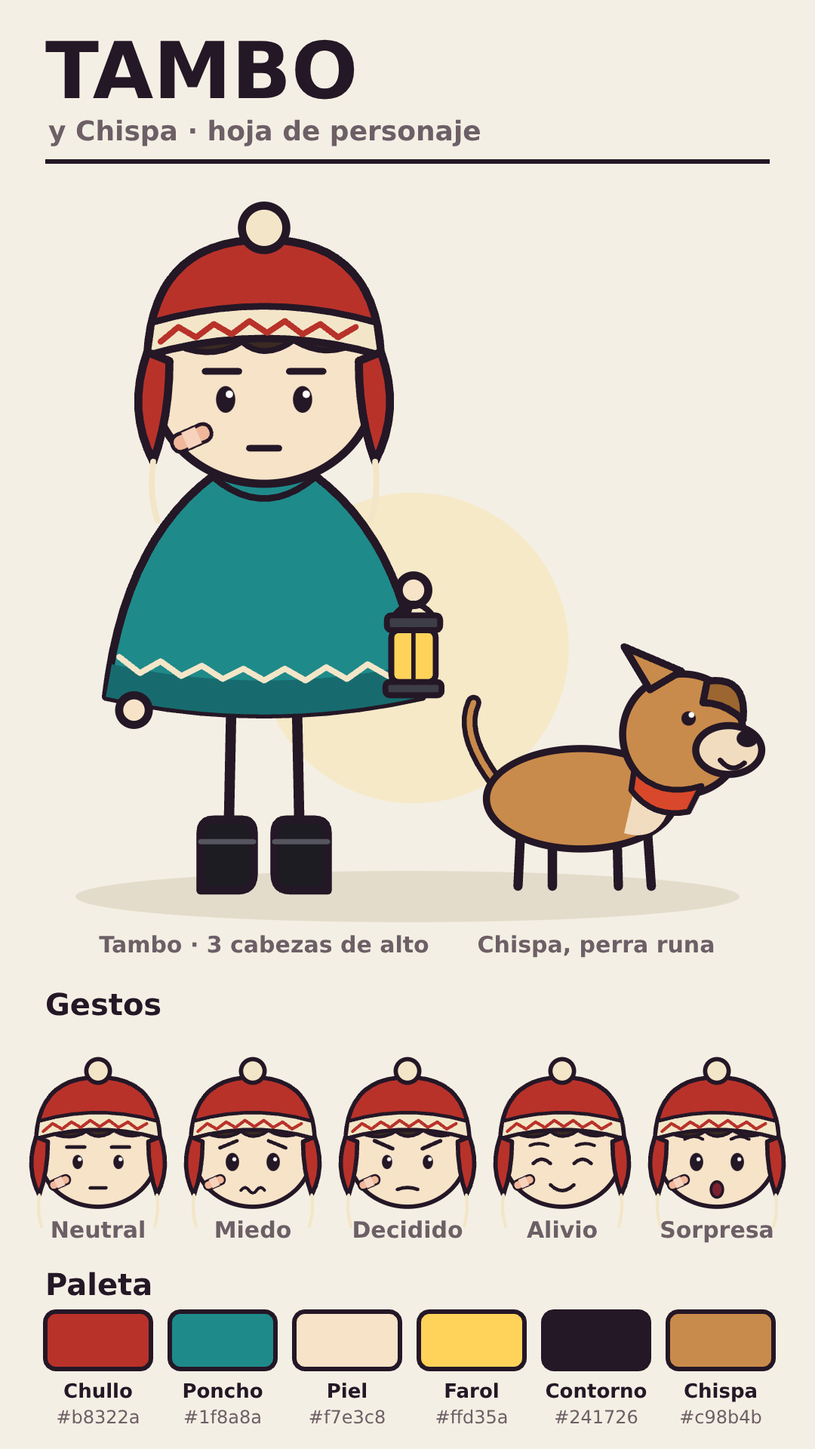
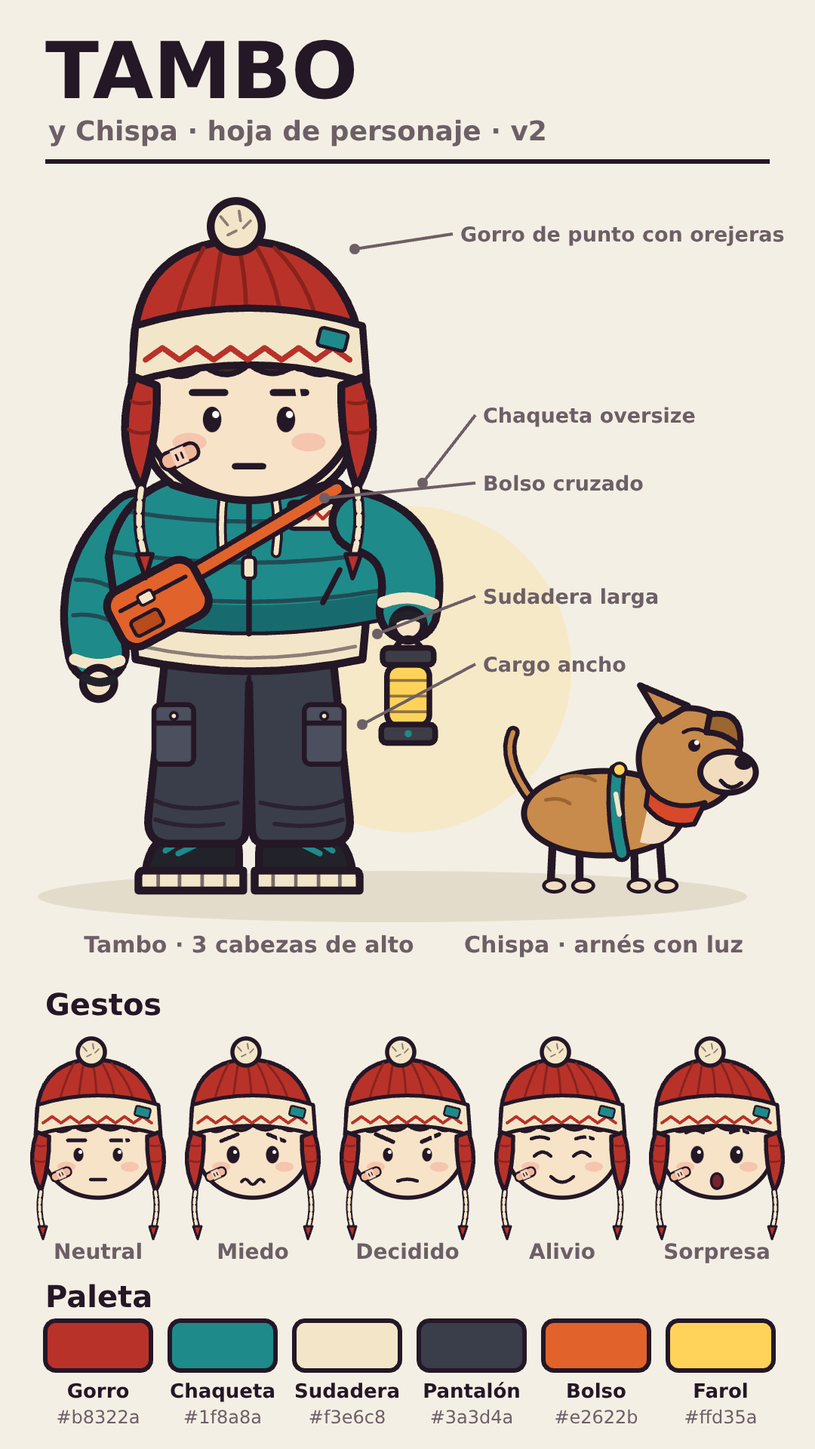
Redesign Tambo with detailed oversized streetwear
Claude-Session: https://claude.ai/code/session_014WXcrYC9XD7ERpYUNELFBA

diff --git a/src/personaje/Tambo.tsx b/src/personaje/Tambo.tsx
@@ -1,19 +1,27 @@
 // Tambo y Chispa: los personajes fijos del canal. Ver personaje/BIBLIA_TAMBO.md.
-// Dibujo 2D en SVG. El origen (0, 0) está entre los pies; Tambo mide unas 880 unidades de alto.
+// Versión 2 (2026): ropa oversize actual y más detalle. Dibujo 2D en SVG.
+// El origen (0, 0) está entre los pies; Tambo mide unas 960 unidades de alto.
 import React from "react";
 
 export const PALETA = {
-  contorno: "#241726", piel: "#f7e3c8", chullo: "#b8322a", crema: "#f3e6c8", poncho: "#1f8a8a", ponchoSombra: "#176b6e",
-  botas: "#1c1c22", farol: "#ffd35a", pelo: "#3a2a22", chispa: "#c98b4b", chispaClaro: "#f1dcc0", panuelo: "#d9482b",
+  contorno: "#241726", piel: "#f7e3c8", chullo: "#b8322a", chulloSombra: "#8a221c", crema: "#f3e6c8", chaqueta: "#1f8a8a", chaquetaSombra: "#176b6e",
+  pantalon: "#3a3d4a", pantalonClaro: "#4b4f5e", zapato: "#22222a", bolso: "#e2622b", farol: "#ffd35a", pelo: "#3a2a22",
+  chispa: "#c98b4b", chispaClaro: "#f1dcc0", panuelo: "#d9482b",
 };
 export type Gesto = "neutral" | "miedo" | "decidido" | "alivio" | "sorpresa";
 const C = PALETA;
+
+/** tubo con contorno: mangas y correas anchas */
+const Tubo: React.FC<{ d: string; w: number; c: string; borde?: number }> = ({ d, w, c, borde = 22 }) => (
+  <><path d={d} fill="none" stroke={C.contorno} strokeWidth={w + borde} /><path d={d} fill="none" stroke={c} strokeWidth={w} /></>
+);
 
 const Cara: React.FC<{ gesto: Gesto; mira?: [number, number] }> = ({ gesto, mira = [0, 0] }) => {
   const [mx, my] = [mira[0] * 8, mira[1] * 8];
   const grande = gesto === "miedo" || gesto === "sorpresa";
   return (
     <g stroke={C.contorno} strokeLinecap="round" strokeLinejoin="round" transform="translate(0 30)">
+      <ellipse cx={-84} cy={-662} rx={24} ry={13} fill="#f2a08c" opacity={0.45} stroke="none" /><ellipse cx={84} cy={-662} rx={24} ry={13} fill="#f2a08c" opacity={0.45} stroke="none" />
       {gesto === "alivio"
         ? <path d="M-74 -690 q22 -22 44 0 M30 -690 q22 -22 44 0" fill="none" strokeWidth={9} />
         : <>
@@ -21,11 +29,13 @@ const Cara: React.FC<{ gesto: Gesto; mira?: [number, number] }> = ({ gesto, mira
           <ellipse cx={52 + mx} cy={-694 + my} rx={grande ? 17 : 13} ry={grande ? 23 : 18} fill={C.contorno} stroke="none" />
           <circle cx={-47 + mx} cy={-701 + my} r={5} fill="#fff" stroke="none" /><circle cx={57 + mx} cy={-701 + my} r={5} fill="#fff" stroke="none" />
         </>}
-      {gesto === "neutral" && <path d="M-80 -732 h46 M34 -732 h46" strokeWidth={9} fill="none" />}
-      {gesto === "miedo" && <path d="M-84 -730 l44 -18 M40 -748 l44 18" strokeWidth={9} fill="none" />}
-      {gesto === "decidido" && <path d="M-84 -748 l46 20 M38 -728 l46 -20" strokeWidth={10} fill="none" />}
-      {gesto === "alivio" && <path d="M-82 -736 q24 -10 46 0 M36 -736 q24 -10 46 0" strokeWidth={8} fill="none" />}
-      {gesto === "sorpresa" && <path d="M-82 -752 q24 -14 46 0 M36 -752 q24 -14 46 0" strokeWidth={8} fill="none" />}
+      {gesto === "neutral" && <path d="M-80 -732 h46 M34 -732 h46" strokeWidth={10} fill="none" />}
+      {gesto === "miedo" && <path d="M-84 -730 l44 -18 M40 -748 l44 18" strokeWidth={10} fill="none" />}
+      {gesto === "decidido" && <path d="M-84 -748 l46 20 M38 -728 l46 -20" strokeWidth={11} fill="none" />}
+      {gesto === "alivio" && <path d="M-82 -736 q24 -10 46 0 M36 -736 q24 -10 46 0" strokeWidth={9} fill="none" />}
+      {gesto === "sorpresa" && <path d="M-82 -752 q24 -14 46 0 M36 -752 q24 -14 46 0" strokeWidth={9} fill="none" />}
+      {/* ceja partida: detalle actual */}
+      <line x1={64} y1={-760} x2={72} y2={-716} stroke={C.piel} strokeWidth={7} />
       {gesto === "neutral" && <path d="M-20 -628 h40" strokeWidth={9} fill="none" />}
       {gesto === "miedo" && <path d="M-30 -622 q10 -14 20 0 t20 0 t20 0" strokeWidth={8} fill="none" />}
       {gesto === "decidido" && <path d="M-26 -624 q26 -10 52 0" strokeWidth={9} fill="none" />}
@@ -34,47 +44,89 @@ const Cara: React.FC<{ gesto: Gesto; mira?: [number, number] }> = ({ gesto, mira
       {/* la curita: su marca */}
       <g transform="rotate(-24 -98 -642)" strokeWidth={5}>
         <rect x={-126} y={-654} width={56} height={24} rx={11} fill="#f0b79a" /><rect x={-108} y={-654} width={20} height={24} fill="#f7d3bd" stroke="none" />
+        <path d="M-102 -646 v8 M-94 -646 v8" strokeWidth={3} />
       </g>
     </g>
   );
 };
 
+const Zigzag: React.FC<{ x: number; y: number; n: number; paso: number; alto: number; color: string; w?: number }> = ({ x, y, n, paso, alto, color, w = 7 }) => (
+  <path d={`M${x} ${y}` + [...Array(n)].map((_, i) => `l${paso} ${i % 2 ? alto : -alto}`).join("")} fill="none" stroke={color} strokeWidth={w} />
+);
+
 export const Tambo: React.FC<{ x: number; y: number; s?: number; gesto?: Gesto; farol?: boolean; luz?: number; brazo?: number; voltea?: boolean; soloCabeza?: boolean; mira?: [number, number] }> =
   ({ x, y, s = 1, gesto = "neutral", farol = true, luz = 1, brazo = 0.35, voltea = false, soloCabeza = false, mira }) => {
-    const mx = 190 + 30 * brazo, my = -330 - 190 * brazo; // mano del farol
+    const mx = 214 + 26 * brazo, my = -336 - 170 * brazo; // mano del farol
     return (
       <g transform={`translate(${x} ${y}) scale(${voltea ? -s : s} ${s})`} stroke={C.contorno} strokeWidth={11} strokeLinejoin="round" strokeLinecap="round">
         {!soloCabeza && <>
-          {farol && luz > 0 && <circle cx={mx} cy={my + 78} r={210} fill={C.farol} opacity={0.2 * luz} stroke="none" />}
-          <line x1={-44} y1={-270} x2={-48} y2={-70} strokeWidth={14} /><line x1={44} y1={-270} x2={48} y2={-70} strokeWidth={14} />
-          <path d="M-86 0 V-78 Q-86 -96 -68 -96 H-30 Q-14 -96 -14 -78 V-22 Q-14 0 -36 0Z" fill={C.botas} />
-          <path d="M86 0 V-78 Q86 -96 68 -96 H30 Q14 -96 14 -78 V-22 Q14 0 36 0Z" fill={C.botas} />
-          <path d="M-86 -66 h72 M14 -66 h72" stroke="#55555f" strokeWidth={7} />
-          <path d="M-150 -330 Q-190 -300 -176 -250" fill="none" strokeWidth={13} />
-          <path d={`M150 -330 Q190 ${-330 - 60 * brazo} ${mx} ${my}`} fill="none" strokeWidth={13} />
-          {/* poncho de aguas, con su franja en zigzag */}
-          <path d="M-70 -560 Q-190 -470 -214 -262 Q0 -214 214 -262 Q190 -470 70 -560 Q0 -590 -70 -560Z" fill={C.poncho} />
-          <path d="M-206 -306 Q0 -262 206 -306 L214 -262 Q0 -214 -214 -262Z" fill={C.ponchoSombra} stroke="none" />
-          <path d="M-196 -316 l28 22 l28 -16 l28 20 l28 -14 l28 18 l28 -14 l28 16 l28 -16 l28 16 l28 -18 l28 16 l28 -20 l28 16 l28 -22" fill="none" stroke={C.crema} strokeWidth={8} />
-          <path d="M-70 -560 Q0 -500 70 -560" fill="none" strokeWidth={9} />
-          <circle cx={-176} cy={-244} r={20} fill={C.piel} /><circle cx={mx} cy={my} r={20} fill={C.piel} />
-          {farol && <g transform={`translate(${mx} ${my})`}>
-            <path d="M-26 34 Q0 2 26 34" fill="none" strokeWidth={8} />
-            <rect x={-36} y={34} width={72} height={20} rx={6} fill="#3d3d47" strokeWidth={8} />
-            <rect x={-30} y={54} width={60} height={70} rx={10} fill={luz > 0 ? C.farol : "#7d8590"} strokeWidth={8} />
-            <line x1={0} y1={54} x2={0} y2={124} strokeWidth={6} />
-            <rect x={-38} y={124} width={76} height={18} rx={6} fill="#3d3d47" strokeWidth={8} />
+          {farol && luz > 0 && <circle cx={mx} cy={my + 92} r={230} fill={C.farol} opacity={0.2 * luz} stroke="none" />}
+          {/* zapatillas de suela gruesa */}
+          {[-1, 1].map((k) => <g key={k} transform={`scale(${k} 1)`}>
+            <path d="M14 -26 V-52 Q14 -82 46 -82 H96 Q140 -78 146 -26Z" fill={C.zapato} />
+            <path d="M8 0 V-28 H150 Q156 -28 156 -18 V0Z" fill={C.crema} />
+            <path d="M34 -28 v28 M66 -28 v28 M98 -28 v28 M128 -28 v28" strokeWidth={5} opacity={0.6} />
+            <path d="M60 -72 l40 20 M84 -78 l34 22" stroke={C.chaqueta} strokeWidth={8} />
+          </g>)}
+          {/* pantalón cargo ancho, arrugado en el tobillo */}
+          <path d="M-116 -350 L-142 -104 Q-146 -66 -110 -66 H-22 Q-4 -66 -4 -90 L0 -292 L4 -90 Q4 -66 22 -66 H110 Q146 -66 142 -104 L116 -350Z" fill={C.pantalon} />
+          <path d="M0 -300 V-210" strokeWidth={7} />
+          <path d="M-136 -128 q46 22 120 4 M-132 -100 q40 14 96 6 M136 -128 q-46 22 -120 4 M132 -100 q-40 14 -96 6" fill="none" strokeWidth={6} opacity={0.7} />
+          {[-1, 1].map((k) => <g key={k} transform={`scale(${k} 1)`} strokeWidth={7}>
+            <rect x={78} y={-262} width={56} height={84} rx={9} fill={C.pantalonClaro} /><path d="M78 -236 h56" /><circle cx={106} cy={-246} r={5} fill={C.crema} strokeWidth={4} />
+          </g>)}
+          {/* sudadera larga que asoma bajo la chaqueta */}
+          <path d="M-166 -392 Q0 -356 166 -392 L160 -326 Q0 -292 -160 -326Z" fill={C.crema} />
+          <path d="M-150 -344 Q0 -312 150 -344" fill="none" strokeWidth={5} opacity={0.5} />
+          {/* manga izquierda, caída y ancha */}
+          <Tubo d="M-158 -520 Q-240 -452 -214 -336" w={70} c={C.chaqueta} />
+          <path d="M-244 -438 q30 -2 56 14 M-248 -388 q30 -4 58 10" fill="none" strokeWidth={6} opacity={0.55} />
+          <path d="M-246 -326 q32 14 64 2" stroke={C.crema} strokeWidth={16} /><circle cx={-212} cy={-292} r={22} fill={C.piel} />
+          <path d="M-232 -300 q20 12 40 2" stroke={C.zapato} strokeWidth={12} fill="none" />
+          {/* chaqueta acolchada oversize */}
+          <path d="M-100 -582 Q-186 -556 -198 -470 L-186 -384 Q0 -346 186 -384 L198 -470 Q186 -556 100 -582 Q0 -606 -100 -582Z" fill={C.chaqueta} />
+          <path d="M-190 -420 Q0 -384 190 -420 L186 -384 Q0 -346 -186 -384Z" fill={C.chaquetaSombra} stroke="none" />
+          <path d="M-196 -478 Q0 -446 196 -478 M-192 -424 Q0 -390 192 -424 M-170 -534 Q0 -506 170 -534" fill="none" strokeWidth={6} opacity={0.55} />
+          <path d="M0 -596 V-362" strokeWidth={8} /><rect x={-9} y={-470} width={18} height={30} rx={6} fill={C.crema} strokeWidth={5} />
+          <path d="M-128 -452 l24 46 M128 -452 l-24 46" strokeWidth={8} />
+          <rect x={56} y={-548} width={66} height={38} rx={7} fill={C.crema} strokeWidth={6} /><Zigzag x={64} y={-524} n={5} paso={10} alto={10} color={C.chullo} w={5} />
+          {/* capucha de la sudadera y cordones */}
+          <path d="M-108 -572 Q-160 -612 -126 -652 Q0 -596 126 -652 Q160 -612 108 -572 Q0 -534 -108 -572Z" fill={C.crema} />
+          <path d="M-36 -560 q-6 50 0 96 M36 -560 q8 44 2 84" fill="none" stroke={C.contorno} strokeWidth={15} /><path d="M-36 -560 q-6 50 0 96 M36 -560 q8 44 2 84" fill="none" stroke={C.crema} strokeWidth={7} />
+          {/* bolso cruzado */}
+          <path d="M124 -566 L-150 -404" stroke={C.contorno} strokeWidth={28} /><path d="M124 -566 L-150 -404" stroke={C.bolso} strokeWidth={14} />
+          <g transform="rotate(-28 -128 -404)">
+            <rect x={-196} y={-448} width={136} height={86} rx={24} fill={C.bolso} /><path d="M-180 -420 h104" strokeWidth={6} /><rect x={-150} y={-428} width={22} height={16} rx={4} fill={C.crema} strokeWidth={4} />
+            <rect x={-176} y={-400} width={44} height={24} rx={6} fill="#b84a1c" strokeWidth={5} />
+          </g>
+          {/* manga derecha con el farol */}
+          <Tubo d={`M158 -520 Q${244} ${-478 - 40 * brazo} ${mx} ${my + 10}`} w={70} c={C.chaqueta} />
+          <path d={`M${mx - 36} ${my - 2} q36 -14 72 2`} stroke={C.crema} strokeWidth={16} fill="none" />
+          <circle cx={mx} cy={my + 30} r={22} fill={C.piel} /><path d={`M${mx - 20} ${my + 22} q20 -12 40 0`} stroke={C.zapato} strokeWidth={12} fill="none" />
+          {farol && <g transform={`translate(${mx} ${my + 30})`}>
+            <path d="M-20 34 Q0 2 20 34" fill="none" strokeWidth={8} />
+            <rect x={-36} y={32} width={72} height={24} rx={8} fill="#3d3d47" strokeWidth={8} />
+            <rect x={-30} y={56} width={60} height={86} rx={16} fill={luz > 0 ? C.farol : "#7d8590"} strokeWidth={8} />
+            <path d="M-30 78 h60 M-30 100 h60 M-30 122 h60" strokeWidth={4} opacity={0.5} />
+            <rect x={-38} y={140} width={76} height={26} rx={8} fill="#3d3d47" strokeWidth={8} /><circle cx={0} cy={153} r={5} fill={C.chaqueta} stroke="none" />
           </g>}
         </>}
-        {/* cabeza de frijol y chullo */}
+        {/* cabeza de frijol */}
         <ellipse cx={0} cy={-690} rx={152} ry={140} fill={C.piel} />
-        <path d="M-120 -738 Q-70 -716 -30 -742 Q0 -716 40 -744 Q80 -720 120 -738 L112 -790 H-112Z" fill={C.pelo} strokeWidth={8} />
-        <path d="M-158 -724 Q-150 -880 0 -880 Q150 -880 158 -724 Q0 -770 -158 -724Z" fill={C.chullo} />
-        <path d="M-158 -724 Q0 -770 158 -724 L152 -768 Q0 -812 -152 -768Z" fill={C.crema} strokeWidth={9} />
-        <path d="M-140 -742 l24 -20 l24 14 l24 -18 l24 14 l24 -18 l24 16 l24 -16 l24 18 l24 -14 l24 18 l24 -14" fill="none" stroke={C.chullo} strokeWidth={8} />
-        <path d="M-158 -728 Q-186 -650 -150 -580 Q-128 -640 -128 -716Z" fill={C.chullo} /><path d="M158 -728 Q186 -650 150 -580 Q128 -640 128 -716Z" fill={C.chullo} />
-        <path d="M-150 -580 q-6 44 6 80 M150 -580 q6 44 -6 80" fill="none" stroke={C.crema} strokeWidth={8} />
-        <circle cx={0} cy={-896} r={30} fill={C.crema} />
+        <path d="M-124 -736 Q-96 -712 -64 -740 Q-30 -714 0 -742 Q34 -716 66 -742 Q98 -716 124 -736 L116 -790 H-116Z" fill={C.pelo} strokeWidth={8} />
+        {/* gorro de punto oversize con orejeras: su silueta */}
+        <path d="M-162 -724 Q-176 -900 -30 -916 Q150 -924 164 -724 Q0 -772 -162 -724Z" fill={C.chullo} />
+        {[-104, -54, -4, 46, 96].map((u) => <path key={u} d={`M${u} -800 Q${u * 0.86} -860 ${u * 0.5 - 12} -906`} fill="none" stroke={C.chulloSombra} strokeWidth={6} />)}
+        <path d="M-166 -716 Q0 -766 166 -716 L160 -796 Q0 -846 -160 -796Z" fill={C.crema} strokeWidth={10} />
+        <Zigzag x={-146} y={-748} n={12} paso={24} alto={17} color={C.chullo} w={8} />
+        <rect x={98} y={-790} width={40} height={26} rx={5} fill={C.chaqueta} strokeWidth={5} transform="rotate(14 118 -777)" />
+        <path d="M-162 -724 Q-192 -640 -152 -566 Q-128 -636 -130 -712Z" fill={C.chullo} /><path d="M162 -724 Q192 -640 152 -566 Q128 -636 130 -712Z" fill={C.chullo} />
+        <path d="M-166 -690 q10 6 26 2 M-170 -650 q12 8 30 4 M166 -690 q-10 6 -26 2 M170 -650 q-12 8 -30 4" fill="none" stroke={C.chulloSombra} strokeWidth={5} />
+        {[-1, 1].map((k) => <g key={k} transform={`scale(${k} 1)`}>
+          <path d="M152 -566 q8 50 -4 92" fill="none" stroke={C.contorno} strokeWidth={16} /><path d="M152 -566 q8 50 -4 92" fill="none" stroke={C.crema} strokeWidth={8} strokeDasharray="12 7" />
+          <path d="M136 -474 l10 34 l12 -34Z" fill={C.chullo} strokeWidth={6} />
+        </g>)}
+        <circle cx={-18} cy={-936} r={36} fill={C.crema} /><path d="M-40 -950 l10 12 M-14 -958 l2 14 M2 -944 l-10 10 M-30 -924 l12 -6" strokeWidth={4} opacity={0.5} />
         <Cara gesto={gesto} mira={mira} />
       </g>
     );
@@ -84,16 +136,22 @@ export const Tambo: React.FC<{ x: number; y: number; s?: number; gesto?: Gesto; 
 export const Chispa: React.FC<{ x: number; y: number; s?: number; alerta?: boolean; voltea?: boolean; cola?: number }> = ({ x, y, s = 1, alerta = false, voltea = false, cola = 0 }) => (
   <g transform={`translate(${x} ${y}) scale(${voltea ? -s : s} ${s})`} stroke={C.contorno} strokeWidth={10} strokeLinejoin="round" strokeLinecap="round">
     <path d={`M-118 -150 Q-170 ${-200 - 30 * cola} -150 ${-250 - 20 * cola}`} fill="none" strokeWidth={22} /><path d={`M-118 -150 Q-170 ${-200 - 30 * cola} -150 ${-250 - 20 * cola}`} fill="none" strokeWidth={8} stroke={C.chispa} />
-    <line x1={-84} y1={-90} x2={-88} y2={-6} strokeWidth={13} /><line x1={-40} y1={-86} x2={-40} y2={-6} strokeWidth={13} />
-    <line x1={50} y1={-86} x2={52} y2={-6} strokeWidth={13} /><line x1={92} y1={-92} x2={98} y2={-6} strokeWidth={13} />
+    {[[-84, -88], [-40, -40], [50, 52], [92, 98]].map(([a, b], i) => <g key={i}>
+      <line x1={a} y1={-90} x2={b} y2={-8} strokeWidth={13} /><ellipse cx={b + 6} cy={-8} rx={17} ry={10} fill={C.chispaClaro} strokeWidth={6} />
+    </g>)}
     <ellipse cx={0} cy={-128} rx={132} ry={70} fill={C.chispa} />
     <path d="M60 -80 Q110 -66 124 -120 Q110 -150 76 -150Z" fill={C.chispaClaro} stroke="none" />
+    <path d="M-70 -186 q30 -10 56 4 M-96 -150 q24 -6 40 6" fill="none" stroke="#9c6630" strokeWidth={6} />
+    {/* arnés reflectivo con luz */}
+    <path d="M22 -196 Q14 -128 30 -62" fill="none" stroke={C.contorno} strokeWidth={30} /><path d="M22 -196 Q14 -128 30 -62" fill="none" stroke={C.chaqueta} strokeWidth={16} />
+    <path d="M20 -160 l6 34" stroke={C.crema} strokeWidth={8} /><circle cx={26} cy={-200} r={11} fill={C.farol} strokeWidth={5} />
     <circle cx={142} cy={-218} r={84} fill={C.chispa} />
     <path d={alerta ? "M96 -280 L84 -372 L150 -300Z" : "M96 -280 L60 -340 L140 -306Z"} fill={C.chispa} />
     <path d="M176 -292 Q232 -300 226 -238 Q200 -262 170 -262Z" fill="#9c6630" />
     <ellipse cx={206} cy={-196} rx={46} ry={34} fill={C.chispaClaro} />
     <ellipse cx={232} cy={-212} rx={15} ry={12} fill={C.contorno} stroke="none" />
     <circle cx={150} cy={-240} r={alerta ? 13 : 10} fill={C.contorno} stroke="none" /><circle cx={154} cy={-245} r={4} fill="#fff" stroke="none" />
+    <path d="M132 -262 q16 -10 34 -2" fill="none" strokeWidth={6} />
     {alerta ? <path d="M196 -180 q14 12 30 2" fill="none" strokeWidth={7} /> : <path d="M194 -182 q16 20 34 4" fill="none" strokeWidth={7} />}
     <path d="M74 -168 Q110 -128 168 -146 L150 -110 Q100 -100 70 -140Z" fill={C.panuelo} strokeWidth={8} />
   </g>
@@ -102,26 +160,35 @@ export const Chispa: React.FC<{ x: number; y: number; s?: number; alerta?: boole
 // ---------------------------------------------------------------- hoja de personaje (una sola imagen)
 const F = "DejaVu Sans, Arial, sans-serif";
 const GESTOS: [Gesto, string][] = [["neutral", "Neutral"], ["miedo", "Miedo"], ["decidido", "Decidido"], ["alivio", "Alivio"], ["sorpresa", "Sorpresa"]];
-const MUESTRAS: [string, string][] = [["Chullo", C.chullo], ["Poncho", C.poncho], ["Piel", C.piel], ["Farol", C.farol], ["Contorno", C.contorno], ["Chispa", C.chispa]];
+const MUESTRAS: [string, string][] = [["Gorro", C.chullo], ["Chaqueta", C.chaqueta], ["Sudadera", C.crema], ["Pantalón", C.pantalon], ["Bolso", C.bolso], ["Farol", C.farol]];
+const NOTAS: [number, number, number, number, string][] = [
+  [610, 320, 470, 330, "Gorro de punto con orejeras"], [640, 560, 560, 640, "Chaqueta oversize"], [640, 650, 430, 660, "Bolso cruzado"],
+  [640, 800, 500, 840, "Sudadera larga"], [640, 890, 480, 960, "Cargo ancho"],
+];
 export const HojaTambo: React.FC = () => (
   <svg width={1080} height={1920} viewBox="0 0 1080 1920" style={{ background: "#f4efe4" }}>
     <rect width={1080} height={1920} fill="#f4efe4" />
     <text x={60} y={130} fontFamily={F} fontWeight={800} fontSize={104} fill={C.contorno}>TAMBO</text>
-    <text x={64} y={186} fontFamily={F} fontWeight={700} fontSize={36} fill="#6d5f66">y Chispa · hoja de personaje</text>
+    <text x={64} y={186} fontFamily={F} fontWeight={700} fontSize={36} fill="#6d5f66">y Chispa · hoja de personaje · v2</text>
     <line x1={60} y1={214} x2={1020} y2={214} stroke={C.contorno} strokeWidth={6} />
-    <ellipse cx={540} cy={1188} rx={440} ry={34} fill="#e4dccb" />
-    <Tambo x={350} y={1180} s={0.98} gesto="neutral" brazo={0.4} />
-    <Chispa x={770} y={1180} s={0.95} cola={0.6} />
-    <text x={350} y={1262} textAnchor="middle" fontFamily={F} fontWeight={700} fontSize={30} fill="#6d5f66">Tambo · 3 cabezas de alto</text>
-    <text x={790} y={1262} textAnchor="middle" fontFamily={F} fontWeight={700} fontSize={30} fill="#6d5f66">Chispa, perra runa</text>
+    <ellipse cx={520} cy={1188} rx={470} ry={34} fill="#e4dccb" />
+    <Tambo x={330} y={1180} s={0.94} gesto="neutral" brazo={0.4} />
+    <Chispa x={800} y={1180} s={0.8} cola={0.6} />
+    {NOTAS.map(([tx, ty, px, py, n], i) => <g key={i}>
+      <line x1={tx - 10} y1={ty - 10} x2={px} y2={py} stroke="#6d5f66" strokeWidth={4} />
+      <circle cx={px} cy={py} r={7} fill="#6d5f66" />
+      <text x={tx} y={ty} fontFamily={F} fontWeight={700} fontSize={27} fill="#6d5f66">{n}</text>
+    </g>)}
+    <text x={800} y={1262} textAnchor="middle" fontFamily={F} fontWeight={700} fontSize={30} fill="#6d5f66">Chispa · arnés con luz</text>
+    <text x={330} y={1262} textAnchor="middle" fontFamily={F} fontWeight={700} fontSize={30} fill="#6d5f66">Tambo · 3 cabezas de alto</text>
     <text x={60} y={1345} fontFamily={F} fontWeight={800} fontSize={40} fill={C.contorno}>Gestos</text>
     {GESTOS.map(([g, n], i) => <g key={g}>
-      <Tambo x={130 + i * 205} y={1885} s={0.52} gesto={g} soloCabeza />
-      <text x={130 + i * 205} y={1640} textAnchor="middle" fontFamily={F} fontWeight={700} fontSize={30} fill="#6d5f66">{n}</text>
+      <Tambo x={130 + i * 205} y={1862} s={0.5} gesto={g} soloCabeza />
+      <text x={130 + i * 205} y={1668} textAnchor="middle" fontFamily={F} fontWeight={700} fontSize={28} fill="#6d5f66">{n}</text>
     </g>)}
-    <text x={60} y={1716} fontFamily={F} fontWeight={800} fontSize={40} fill={C.contorno}>Paleta</text>
+    <text x={60} y={1732} fontFamily={F} fontWeight={800} fontSize={40} fill={C.contorno}>Paleta</text>
     {MUESTRAS.map(([n, c], i) => <g key={n}>
-      <rect x={60 + i * 165} y={1738} width={140} height={76} rx={14} fill={c} stroke={C.contorno} strokeWidth={6} />
+      <rect x={60 + i * 165} y={1750} width={140} height={66} rx={14} fill={c} stroke={C.contorno} strokeWidth={6} />
       <text x={130 + i * 165} y={1852} textAnchor="middle" fontFamily={F} fontWeight={700} fontSize={26} fill={C.contorno}>{n}</text>
       <text x={130 + i * 165} y={1886} textAnchor="middle" fontFamily={F} fontSize={24} fill="#6d5f66">{c}</text>
     </g>)}

diff --git a/personaje/BIBLIA_TAMBO.md b/personaje/BIBLIA_TAMBO.md
@@ -14,11 +14,11 @@ del tamaño de una uña.
 
 | | Referencia (no usar) | Tambo |
 |---|---|---|
-| Cabeza | gorro azul con linterna frontal | chullo rojo con orejeras, franja crema y borla |
-| Ropa | sudadera amarilla con capucha | poncho de aguas verde azulado con zigzag crema |
+| Cabeza | gorro azul con linterna frontal | gorro de punto rojo con orejeras, franja crema en zigzag y borla |
+| Ropa | sudadera amarilla con capucha | chaqueta acolchada verde azulado oversize, cargo ancho y bolso cruzado |
 | Luz | linterna en la frente | farol de mano amarillo |
 | Cara | blanca | piel crema, curita en la mejilla |
-| Compañía | solo | Chispa, su perra |
+| Compañía | solo | Chispa, su perra, con arnés y lucecita |
 | Mundo | genérico | Ecuador y los Andes: páramo, selva, costa, Galápagos |
 
 ## Quién es
@@ -42,22 +42,35 @@ Perra runa (mestiza) color canela, una oreja parada y otra caída, pañuelo rojo
 peligro antes que Tambo**: si Chispa mira fijo a un rincón, el público ya sabe que algo viene. No habla, no hace
 gracias de caricatura. Regla de oro: **a Chispa no le pasa nada malo en pantalla.**
 
-## Cómo se ve
-- **Proporción:** 3 cabezas de alto. Cabeza de frijol, extremidades de palito, contorno ciruela `#241726`.
-- **Chullo** rojo `#b8322a` con franja crema `#f3e6c8` en zigzag, dos orejeras con cordón y una borla crema arriba.
-  Nunca se lo quita. Es su silueta: debe reconocerse solo con la sombra.
-- **Poncho de aguas** verde azulado `#1f8a8a`, con una franja en zigzag crema cerca del borde.
-- **Botas de caucho** negras `#1c1c22`.
-- **Farol de mano** amarillo `#ffd35a`, en la mano derecha. Encendido da un halo cálido; apagado se ve gris.
-- **Cara:** piel crema `#f7e3c8`, ojos ovalados oscuros con un brillo, cejas gruesas, flequillo oscuro bajo el
-  chullo y **una curita en la mejilla izquierda**. La curita nunca se explica: es un misterio del canal.
+## Cómo se ve (versión 2, ropa oversize 2026)
+Chico andino vestido como alguien de su edad hoy: ropa urbana ancha, con un solo guiño a su tierra en el gorro.
+
+- **Proporción:** 3 cabezas de alto. Cabeza de frijol y contorno ciruela `#241726`. La ropa ancha le da el
+  volumen: mangas y piernas gruesas, ya no de palito.
+- **Gorro de punto** rojo `#b8322a`, grande y caído, con canalé, vuelta crema `#f3e6c8` en zigzag, etiqueta verde
+  azulado, dos orejeras con cordón trenzado y una borla crema. Es un chullo en versión actual. Nunca se lo quita:
+  es su silueta y debe reconocerse solo con la sombra.
+- **Chaqueta acolchada oversize** verde azulado `#1f8a8a`: hombros caídos, costuras horizontales, cierre al
+  centro, bolsillos en diagonal y un parche crema con zigzag rojo en el pecho.
+- **Sudadera crema larga** debajo: se ven la capucha tras el cuello, los dos cordones y el borde bajo la chaqueta.
+- **Pantalón cargo ancho** gris carbón `#3a3d4a`, con bolsillos laterales y arrugas en el tobillo.
+- **Zapatillas de suela gruesa** oscuras con suela crema y dos rayas verde azulado.
+- **Bolso cruzado** naranja `#e2622b`, del hombro derecho a la cadera izquierda. Ahí guarda la bitácora.
+- **Farol de camping** recargable, amarillo `#ffd35a`, en la mano derecha. Encendido da un halo cálido; apagado
+  se ve gris.
+- **Guantes sin dedos** oscuros.
+- **Cara:** piel crema `#f7e3c8`, ojos ovalados oscuros con un brillo, cejas gruesas (la derecha partida), rubor
+  suave, flequillo oscuro bajo el gorro y **una curita en la mejilla izquierda**. La curita nunca se explica: es
+  un misterio del canal.
 - **Gestos permitidos (5):** neutral, miedo, decidido, alivio, sorpresa. Nada de caras exageradas ni lágrimas de
   caricatura.
+- **Chispa** lleva pañuelo rojo y un arnés verde azulado con una lucecita amarilla.
 
 ### Reglas de consistencia
-1. Chullo, poncho, farol y curita en **todos** los cuadros y miniaturas. Si falta uno, no es Tambo.
+1. Gorro rojo, chaqueta verde azulado, bolso naranja, farol y curita en **todos** los cuadros y miniaturas. Si
+   falta uno, no es Tambo.
 2. Los colores son los de la paleta, con esos códigos. La escena puede teñirlos (noche azul, fuego naranja), pero
-   el chullo debe seguir leyéndose rojo.
+   el gorro debe seguir leyéndose rojo.
 3. El farol es la única luz cálida de las escenas oscuras. Todo lo demás, frío.
 4. Nunca se ve la cara de lo que lo persigue completa y de frente: siluetas, ojos, manos, sombras.
 5. Sin sangre ni heridas explícitas. El miedo viene de lo que no se ve.
@@ -101,7 +114,7 @@ Cada una usa un lugar real del Ecuador y un dato real de supervivencia.
 ## Miniaturas y títulos
 - **Miniatura:** Tambo de medio cuerpo a la derecha con uno de los 5 gestos, el peligro pequeño al fondo y una
   sola palabra enorme arriba a la izquierda («1 AÑO», «DÍA 100», «PARTE 2»). Máximo 3 palabras.
-- **Color:** fondo frío y oscuro; chullo rojo y farol amarillo como únicos acentos cálidos.
+- **Color:** fondo frío y oscuro; gorro rojo, bolso naranja y farol amarillo como únicos acentos cálidos.
 - **Título:** «Sobreviví 1 año en [lugar]» o «Cómo sobrevivir si [regla del mundo] durante 1 año». Menos de 60
   caracteres.
 - El flyer vertical de cada video sale con `herramientas/flyer_y_textos.py` (paso 12 de `SKILL.md`).
@@ -117,14 +130,14 @@ Antes de elegir, comprueba que el nombre esté libre en YouTube, TikTok y Facebo
 Sube siempre `personaje/hoja_tambo.png` como imagen de referencia y pega este bloque al inicio.
 
 ```
-CHARACTER: Tambo, a 19-year-old from the Ecuadorian Andes. Flat 2D cartoon, bean-shaped head, 3 heads tall, thin stick limbs, thick dark plum outline. He ALWAYS wears: a red knitted chullo hat with ear flaps, a cream zigzag band and a cream pom-pom on top; a teal rain poncho with a cream zigzag stripe near the hem; black rubber boots; a small band-aid on his left cheek. He carries a yellow hand lantern in his right hand. Cream skin, dark oval eyes with a small highlight, thick eyebrows, dark fringe under the hat. Calm, quiet, never exaggerated expressions.
-COMPANION: Chispa, a small cinnamon-brown mixed-breed dog, one ear up and one ear folded, red bandana around her neck. She always notices danger first.
+CHARACTER: Tambo, a 19-year-old from the Ecuadorian Andes dressed in modern oversized 2026 streetwear. Flat 2D cartoon, bean-shaped head, 3 heads tall, thick dark plum outline, detailed clothing. He ALWAYS wears: an oversized slouchy red knit beanie with ear flaps and braided cords, a cream folded cuff with a red zigzag pattern, a small teal label and a cream pom-pom; an oversized teal puffer jacket with dropped shoulders, horizontal quilting, a centre zipper and a small cream patch with a red zigzag on the chest; a long cream hoodie underneath (hood behind the neck, two drawstrings, hem showing below the jacket); wide charcoal cargo pants with side pockets, stacked at the ankle; chunky dark sneakers with thick cream soles; an orange crossbody sling bag; dark fingerless gloves; a small band-aid on his left cheek. He carries a yellow rechargeable camping lantern in his right hand. Cream skin, dark oval eyes with a small highlight, thick eyebrows with a slit in the right one, soft blush, dark fringe under the beanie. Calm, quiet, never exaggerated expressions.
+COMPANION: Chispa, a small cinnamon-brown mixed-breed dog, one ear up and one ear folded, red bandana around her neck and a teal harness with a tiny yellow light. She always notices danger first.
 STYLE: vertical 9:16, hand-painted moody backgrounds with thin black ink outlines, cold desaturated palette, the lantern is the only warm light. Eerie and quiet, no gore, no blood. No text, no logos, no watermark.
 ```
 
 **Hoja de expresiones**
 ```
-[CHARACTER] Expression sheet on a plain cream background: five head-and-shoulders drawings of Tambo, same size, in a row: neutral, scared, determined, relieved, surprised. Same hat, poncho and band-aid in each. Flat colors, thick dark plum outline.
+[CHARACTER] Expression sheet on a plain cream background: five head-and-shoulders drawings of Tambo, same size, in a row: neutral, scared, determined, relieved, surprised. Same beanie, jacket collar and band-aid in each. Flat colors, thick dark plum outline.
 ```
 
 **Miniatura tipo**
